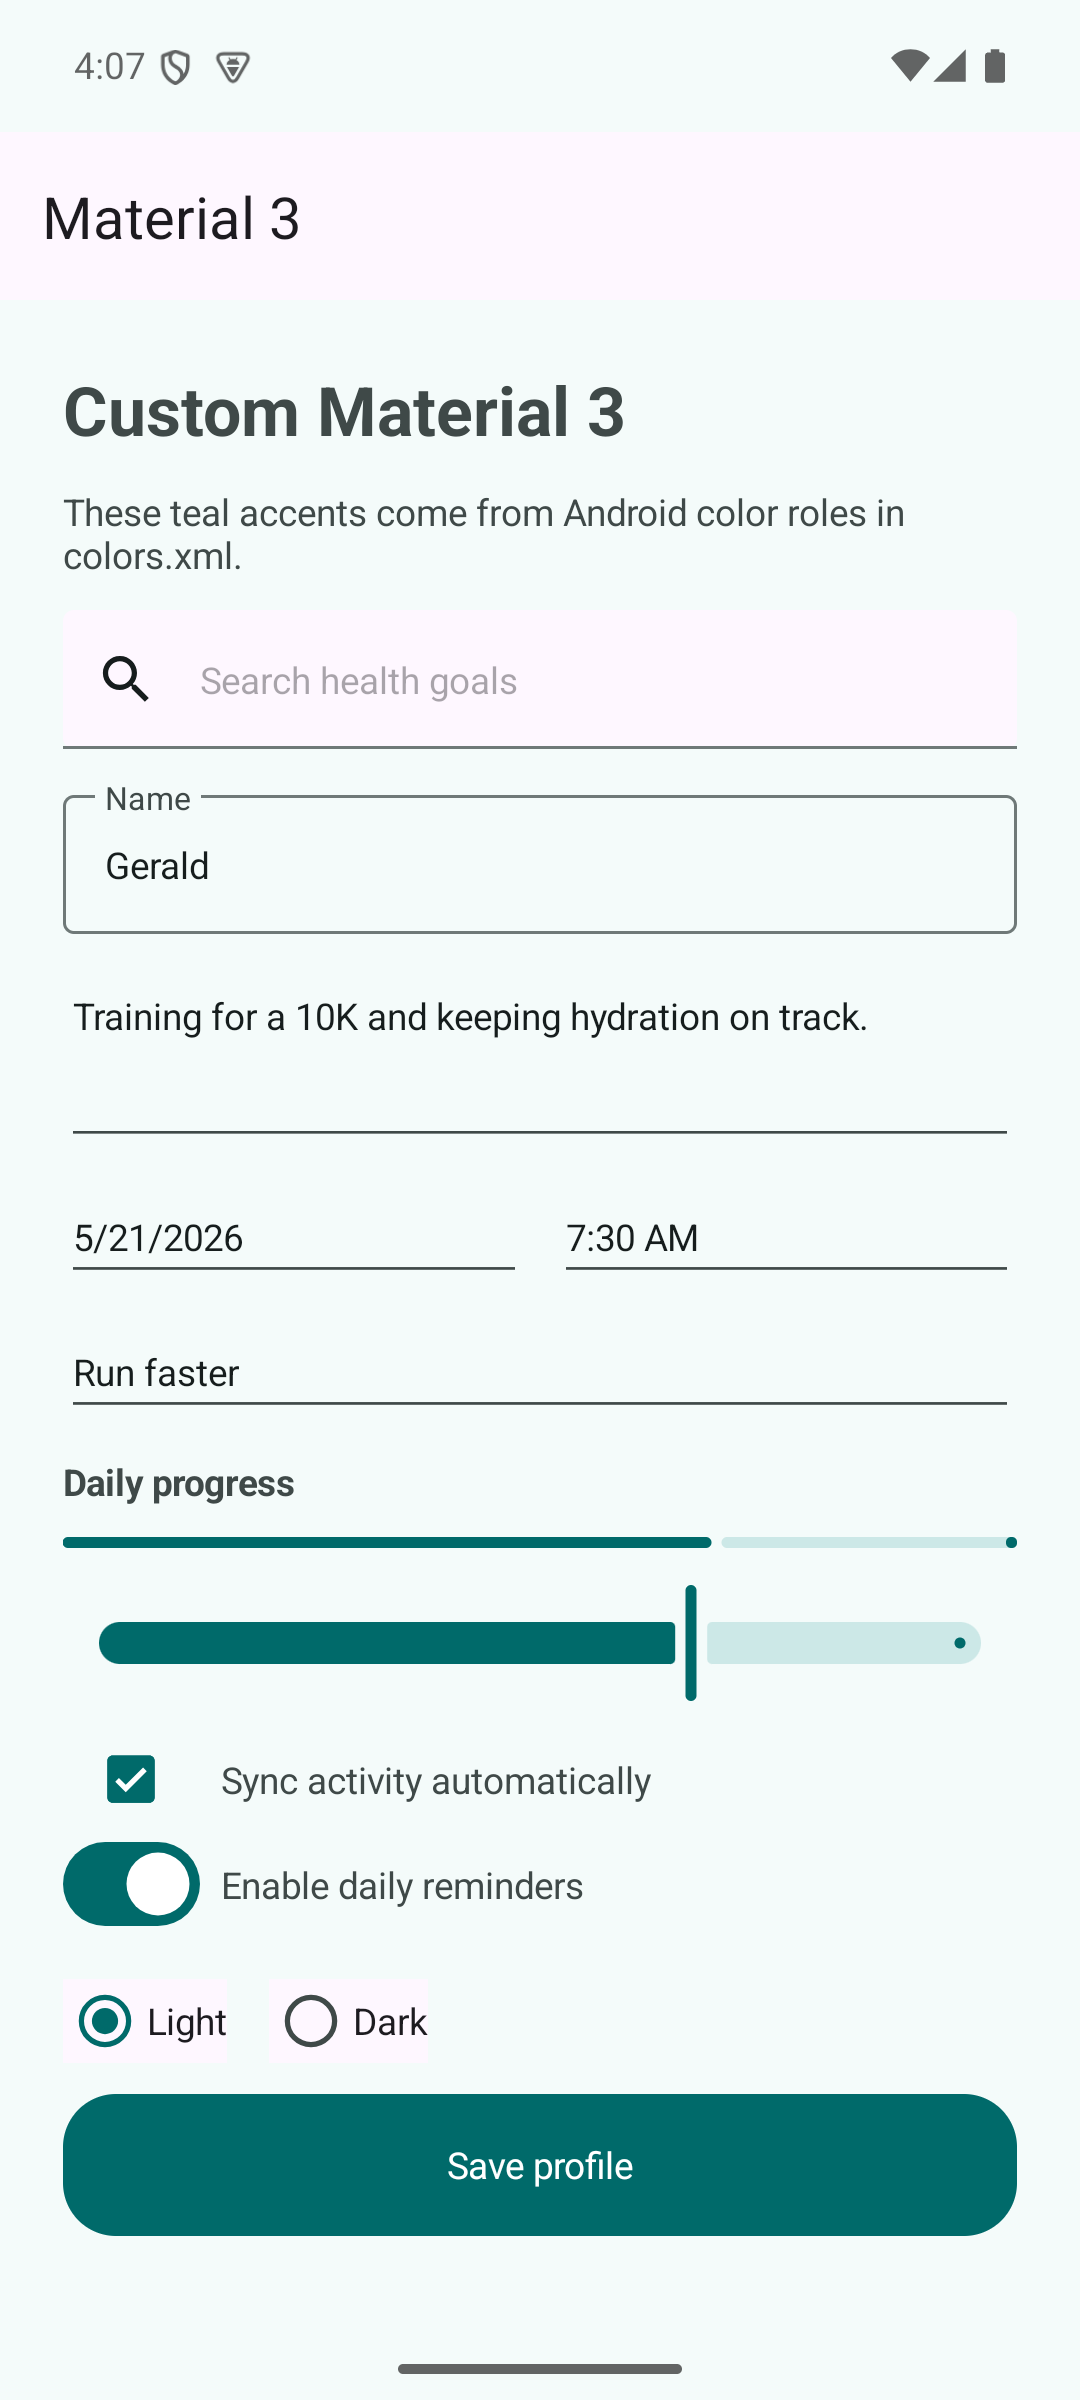
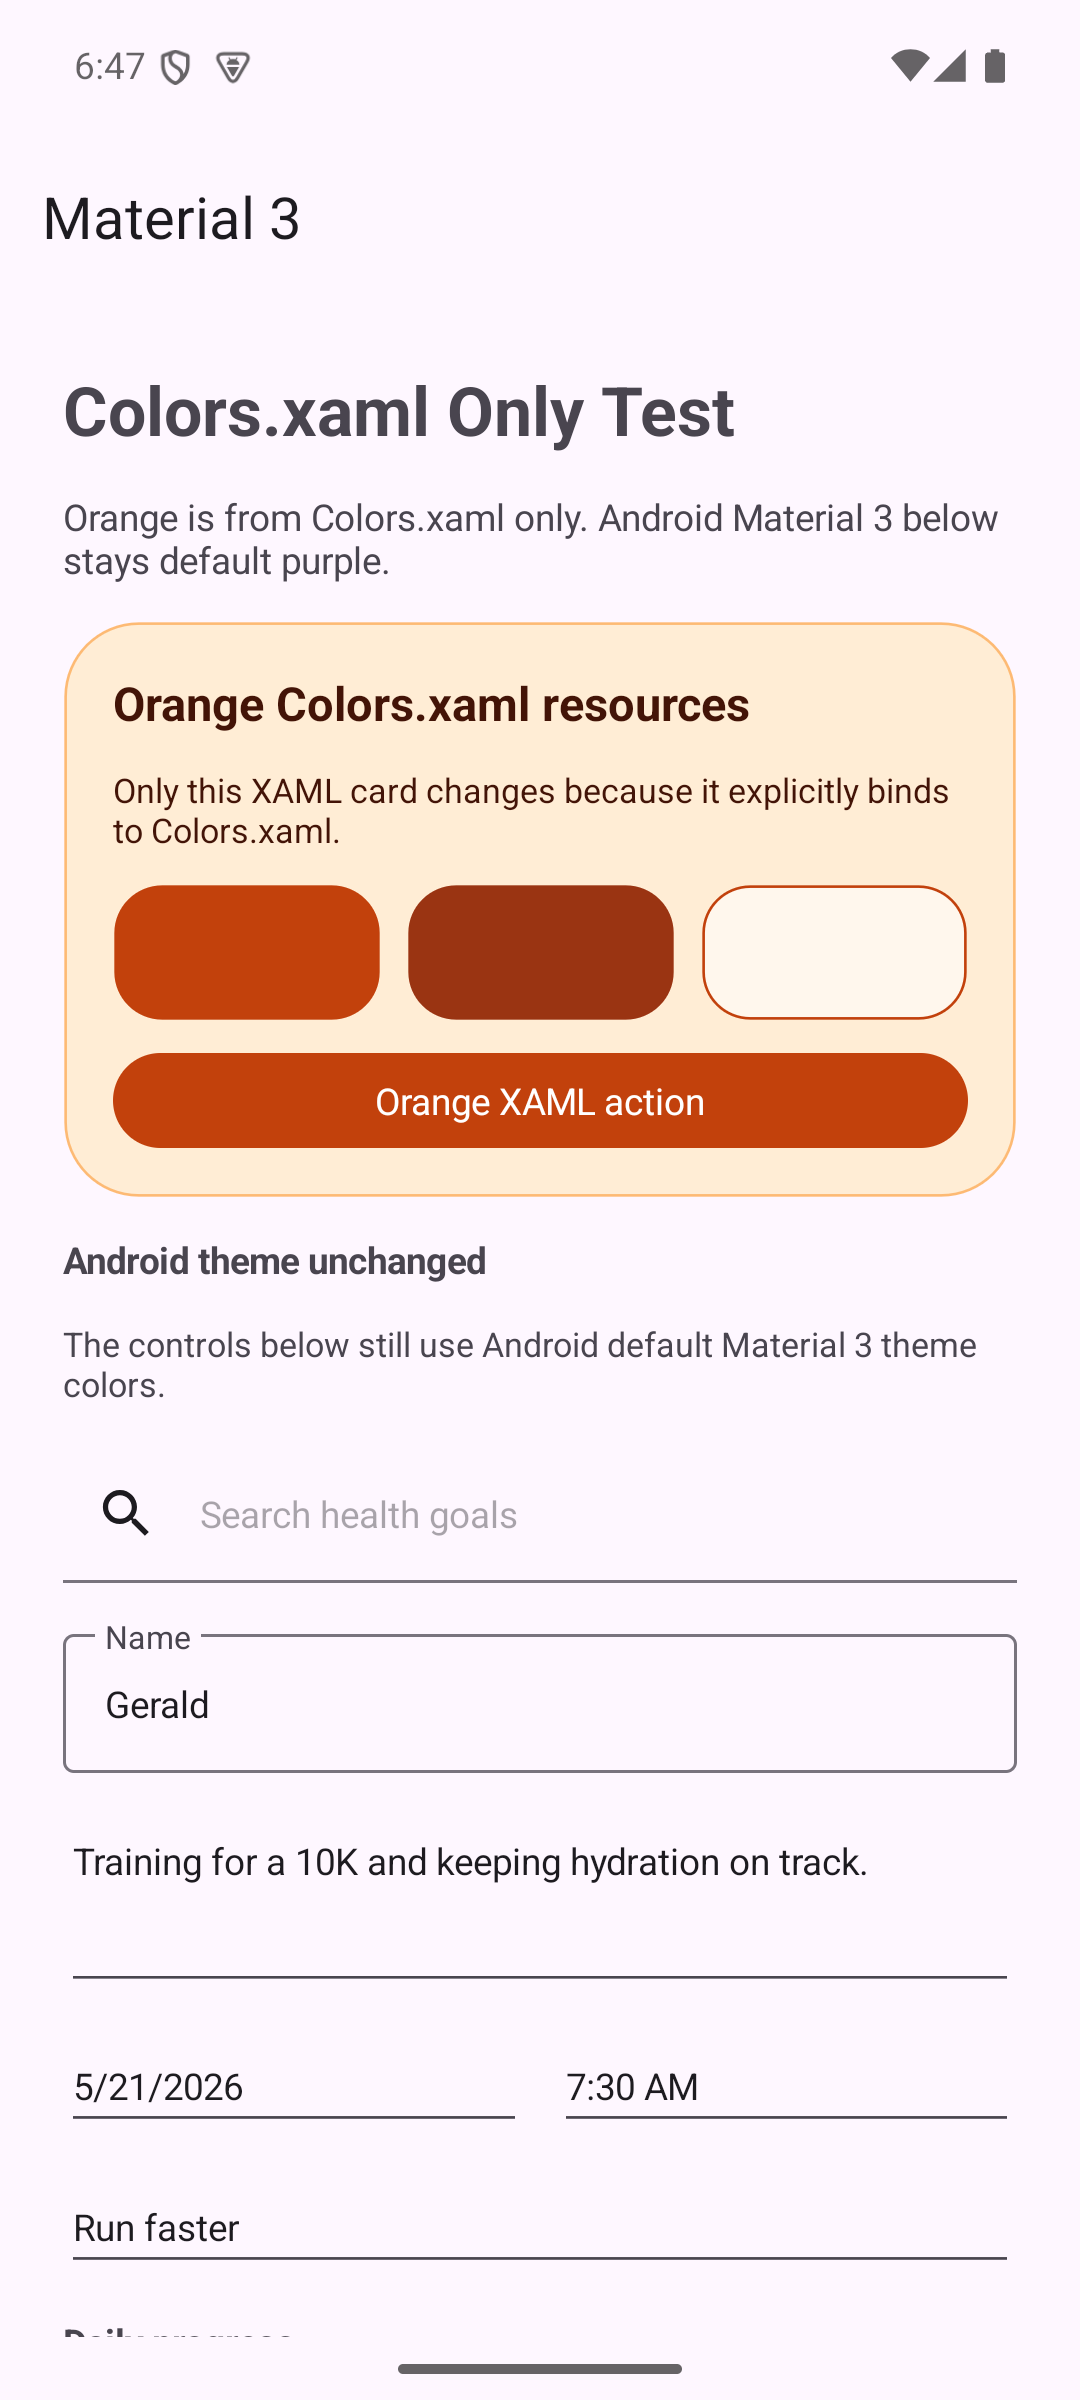
Clarify Colors.xaml screenshot experiment

diff --git a/README.md b/README.md
@@ -34,7 +34,8 @@ Only if you are styling your own MAUI/XAML UI. `Colors.xaml` defines resources, 
 
 This repo includes two experiment screenshots:
 
-- `screenshots/experiment-colors-xaml-only.png`: Android `colors.xml` was reset to the default purple values while `Colors.xaml` stayed teal. The explicitly bound XAML card is teal, but the native Material 3 controls still use the Android theme colors.
+- `screenshots/before-default-material3.png`: Material 3 is enabled with the default purple Android theme and default purple `Colors.xaml` resources.
+- `screenshots/experiment-colors-xaml-only.png`: Android `colors.xml` was reset to the default purple values while `Colors.xaml` was changed to an intentionally orange palette. The explicitly bound XAML card is orange, but the native Material 3 controls still use the Android theme colors.
 - `screenshots/experiment-colors-xaml-with-styles.png`: `Styles.xaml` was also merged, so some MAUI control properties picked up teal XAML resources. Native theme-owned pieces still come from Android resources.
 
 Recommended rule: put the same palette in both places. Use `colors.xml` for Android's native Material 3 theme and `Colors.xaml` for MAUI/XAML UI that you style yourself.
